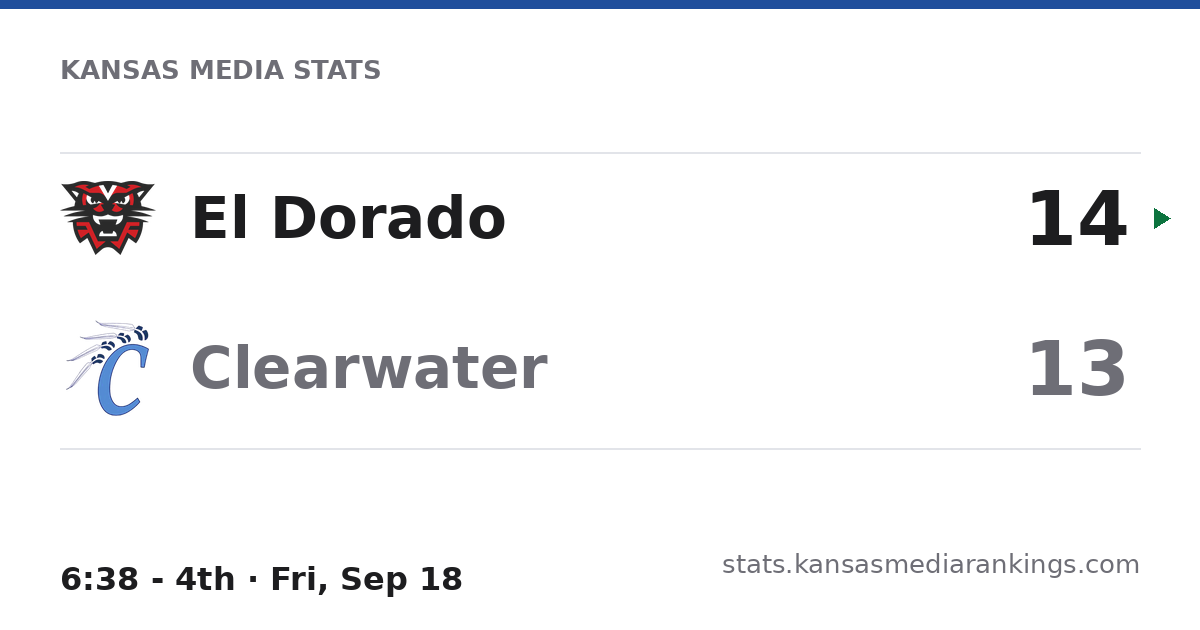
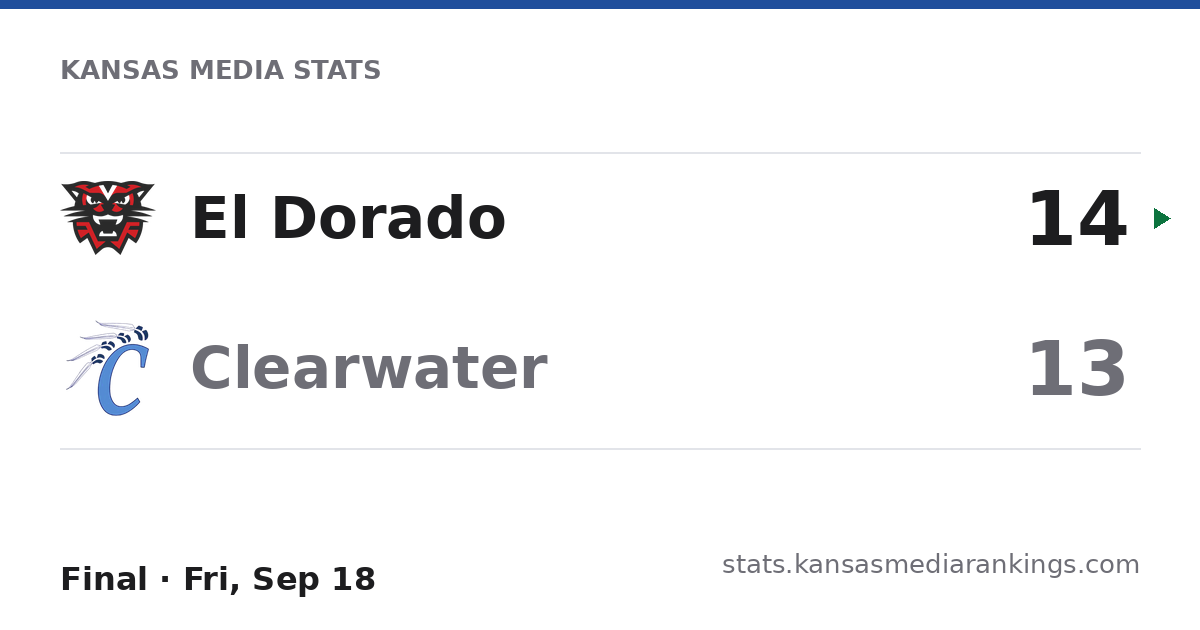
Score cards for games just finished

Changed region(s): [[0.0308, 0.8746, 0.4008, 0.9651]]

diff --git a/g/gmu7kfct6/index.html b/g/gmu7kfct6/index.html
@@ -1,21 +1,21 @@
 <!doctype html>
 <html lang="en"><head><meta charset="utf-8">
-<title>Andale 53, Wellington 15 · Kansas Media Stats</title>
-<meta name="description" content="8:14 - 4th · Fri, Sep 18 · Play-by-play, box score and stats on Kansas Media Stats">
+<title>Andale 60, Wellington 21 · Kansas Media Stats</title>
+<meta name="description" content="0:15 - 4th · Fri, Sep 18 · Play-by-play, box score and stats on Kansas Media Stats">
 <meta property="og:type" content="website">
 <meta property="og:site_name" content="Kansas Media Stats">
-<meta property="og:title" content="Andale 53, Wellington 15">
-<meta property="og:description" content="8:14 - 4th · Fri, Sep 18 · Play-by-play, box score and stats on Kansas Media Stats">
+<meta property="og:title" content="Andale 60, Wellington 21">
+<meta property="og:description" content="0:15 - 4th · Fri, Sep 18 · Play-by-play, box score and stats on Kansas Media Stats">
 <meta property="og:url" content="https://stats.kansasmediarankings.com/g/gmu7kfct6/">
 <meta property="og:image" content="https://stats.kansasmediarankings.com/g/gmu7kfct6/card.png">
 <meta property="og:image:width" content="1200">
 <meta property="og:image:height" content="630">
-<meta property="og:image:alt" content="Andale 53, Wellington 15">
+<meta property="og:image:alt" content="Andale 60, Wellington 21">
 <meta name="twitter:card" content="summary_large_image">
-<meta name="twitter:title" content="Andale 53, Wellington 15">
-<meta name="twitter:description" content="8:14 - 4th · Fri, Sep 18 · Play-by-play, box score and stats on Kansas Media Stats">
+<meta name="twitter:title" content="Andale 60, Wellington 21">
+<meta name="twitter:description" content="0:15 - 4th · Fri, Sep 18 · Play-by-play, box score and stats on Kansas Media Stats">
 <meta name="twitter:image" content="https://stats.kansasmediarankings.com/g/gmu7kfct6/card.png">
 <link rel="canonical" href="https://stats.kansasmediarankings.com/g/gmu7kfct6/">
 <meta http-equiv="refresh" content="0; url=/?game=gmu7kfct6">
 <script>location.replace('/?game=gmu7kfct6' + (location.search ? '&' + location.search.slice(1) : ''));</script>
-</head><body><p><a href="/?game=gmu7kfct6">Andale 53, Wellington 15</a> · Kansas Media Stats</p></body></html>
+</head><body><p><a href="/?game=gmu7kfct6">Andale 60, Wellington 21</a> · Kansas Media Stats</p></body></html>

diff --git a/g/gmu3pkjxc/index.html b/g/gmu3pkjxc/index.html
@@ -1,11 +1,11 @@
 <!doctype html>
 <html lang="en"><head><meta charset="utf-8">
 <title>El Dorado 14, Clearwater 13 · Kansas Media Stats</title>
-<meta name="description" content="6:38 - 4th · Fri, Sep 18 · Play-by-play, box score and stats on Kansas Media Stats">
+<meta name="description" content="Final · Fri, Sep 18 · Play-by-play, box score and stats on Kansas Media Stats">
 <meta property="og:type" content="website">
 <meta property="og:site_name" content="Kansas Media Stats">
 <meta property="og:title" content="El Dorado 14, Clearwater 13">
-<meta property="og:description" content="6:38 - 4th · Fri, Sep 18 · Play-by-play, box score and stats on Kansas Media Stats">
+<meta property="og:description" content="Final · Fri, Sep 18 · Play-by-play, box score and stats on Kansas Media Stats">
 <meta property="og:url" content="https://stats.kansasmediarankings.com/g/gmu3pkjxc/">
 <meta property="og:image" content="https://stats.kansasmediarankings.com/g/gmu3pkjxc/card.png">
 <meta property="og:image:width" content="1200">
@@ -13,7 +13,7 @@
 <meta property="og:image:alt" content="El Dorado 14, Clearwater 13">
 <meta name="twitter:card" content="summary_large_image">
 <meta name="twitter:title" content="El Dorado 14, Clearwater 13">
-<meta name="twitter:description" content="6:38 - 4th · Fri, Sep 18 · Play-by-play, box score and stats on Kansas Media Stats">
+<meta name="twitter:description" content="Final · Fri, Sep 18 · Play-by-play, box score and stats on Kansas Media Stats">
 <meta name="twitter:image" content="https://stats.kansasmediarankings.com/g/gmu3pkjxc/card.png">
 <link rel="canonical" href="https://stats.kansasmediarankings.com/g/gmu3pkjxc/">
 <meta http-equiv="refresh" content="0; url=/?game=gmu3pkjxc">

diff --git a/g/gmu64sdb3/index.html b/g/gmu64sdb3/index.html
@@ -1,11 +1,11 @@
 <!doctype html>
 <html lang="en"><head><meta charset="utf-8">
 <title>Paola 42, Ottawa 7 · Kansas Media Stats</title>
-<meta name="description" content="12:00 - 4th · Fri, Sep 18 · Play-by-play, box score and stats on Kansas Media Stats">
+<meta name="description" content="Final · Fri, Sep 18 · Play-by-play, box score and stats on Kansas Media Stats">
 <meta property="og:type" content="website">
 <meta property="og:site_name" content="Kansas Media Stats">
 <meta property="og:title" content="Paola 42, Ottawa 7">
-<meta property="og:description" content="12:00 - 4th · Fri, Sep 18 · Play-by-play, box score and stats on Kansas Media Stats">
+<meta property="og:description" content="Final · Fri, Sep 18 · Play-by-play, box score and stats on Kansas Media Stats">
 <meta property="og:url" content="https://stats.kansasmediarankings.com/g/gmu64sdb3/">
 <meta property="og:image" content="https://stats.kansasmediarankings.com/g/gmu64sdb3/card.png">
 <meta property="og:image:width" content="1200">
@@ -13,7 +13,7 @@
 <meta property="og:image:alt" content="Paola 42, Ottawa 7">
 <meta name="twitter:card" content="summary_large_image">
 <meta name="twitter:title" content="Paola 42, Ottawa 7">
-<meta name="twitter:description" content="12:00 - 4th · Fri, Sep 18 · Play-by-play, box score and stats on Kansas Media Stats">
+<meta name="twitter:description" content="Final · Fri, Sep 18 · Play-by-play, box score and stats on Kansas Media Stats">
 <meta name="twitter:image" content="https://stats.kansasmediarankings.com/g/gmu64sdb3/card.png">
 <link rel="canonical" href="https://stats.kansasmediarankings.com/g/gmu64sdb3/">
 <meta http-equiv="refresh" content="0; url=/?game=gmu64sdb3">
